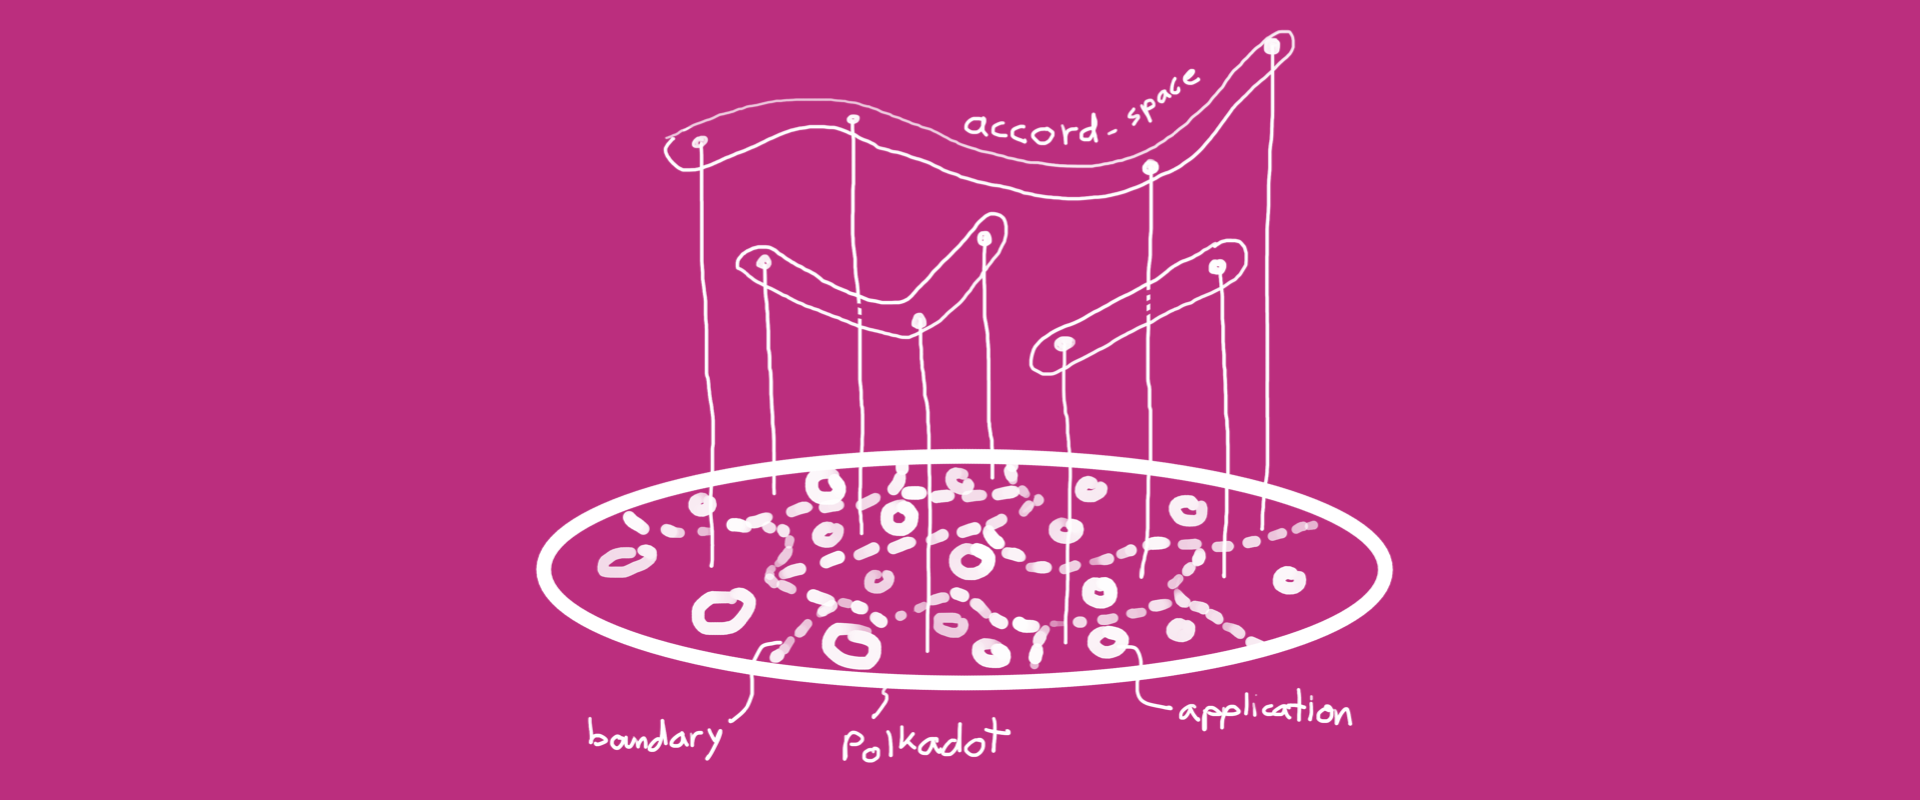
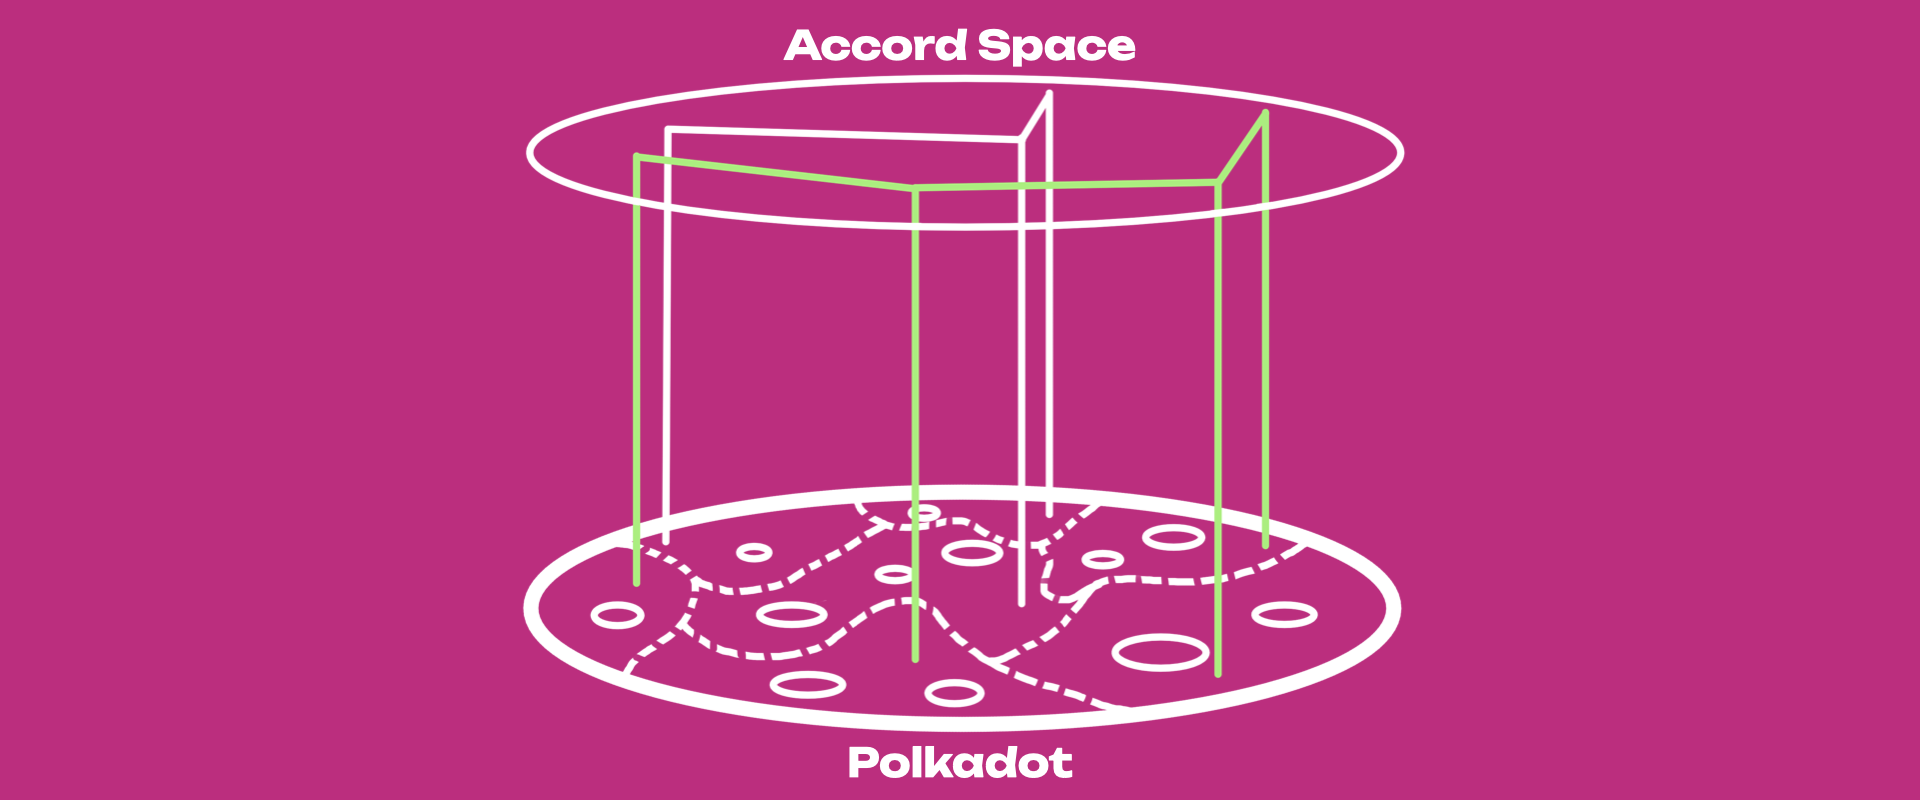
changed accord figures, minor additions

diff --git a/docs/general/polkadot-uc.md b/docs/general/polkadot-uc.md
@@ -248,19 +248,24 @@ Polkadot works must not be important to the users who just need it to use applic
 
 ### XCM and Accords
 
-XCM is a format, a language of intention abstract over functionality that is common within chains.
-It creates an expressive language of what you intend to do or want to happen. There are no
-guarantees that chains faithfully interpret XCM messages, and thus XCM is not ideal if we are in a
-trustless environment.
+[XCM](../learn/learn-xcm-transport.md) is a format, a language of intention abstract over
+functionality that is common within chains. It creates an expressive language of what you intend to
+do or want to happen. There are no guarantees that chains faithfully interpret XCM messages, and
+thus XCM is not ideal if we are in a trustless environment.
 
-XCMP is the transport layer for delivering XCM messages, delivers the message, it give the
-transportation method, a secure route but not a framework for binding agreements.
+[XCMP](../learn/learn-xcm.md) is the transport layer for delivering XCM messages. It gives the
+transportation method and a secure route but not a framework for binding agreements.
 
 An **Accord** is an _opt-in_ treaty across many chains, where treaty logic cannot be changed or
 undermined by one or more of those chains and Polkadot guarantees faithful execution of this logic.
 Accords will be specific to a particular function, and any chain that enters the accord will be held
 to it and will service that particular function. To lower the entry barrier, accords can be proposed
 permissionlessly but, because they are opt-in, the accord proposal will not affect anyone until
-chains agree and sign up.
+chains agree and sign up. Taking the
+[previous representation of Polkadot](#agile-polkadot-representation), if we look at Polkadot no
+more from the top but from the side, accords come off and provide a separate mechanism that
+overrules the local chain sovreignty, this is the **accord space**.
 
 ![agile-polkadot-accords](../assets/agile-polkadot-accords.png)
+
+Accords cannot exist on any kind of system.
